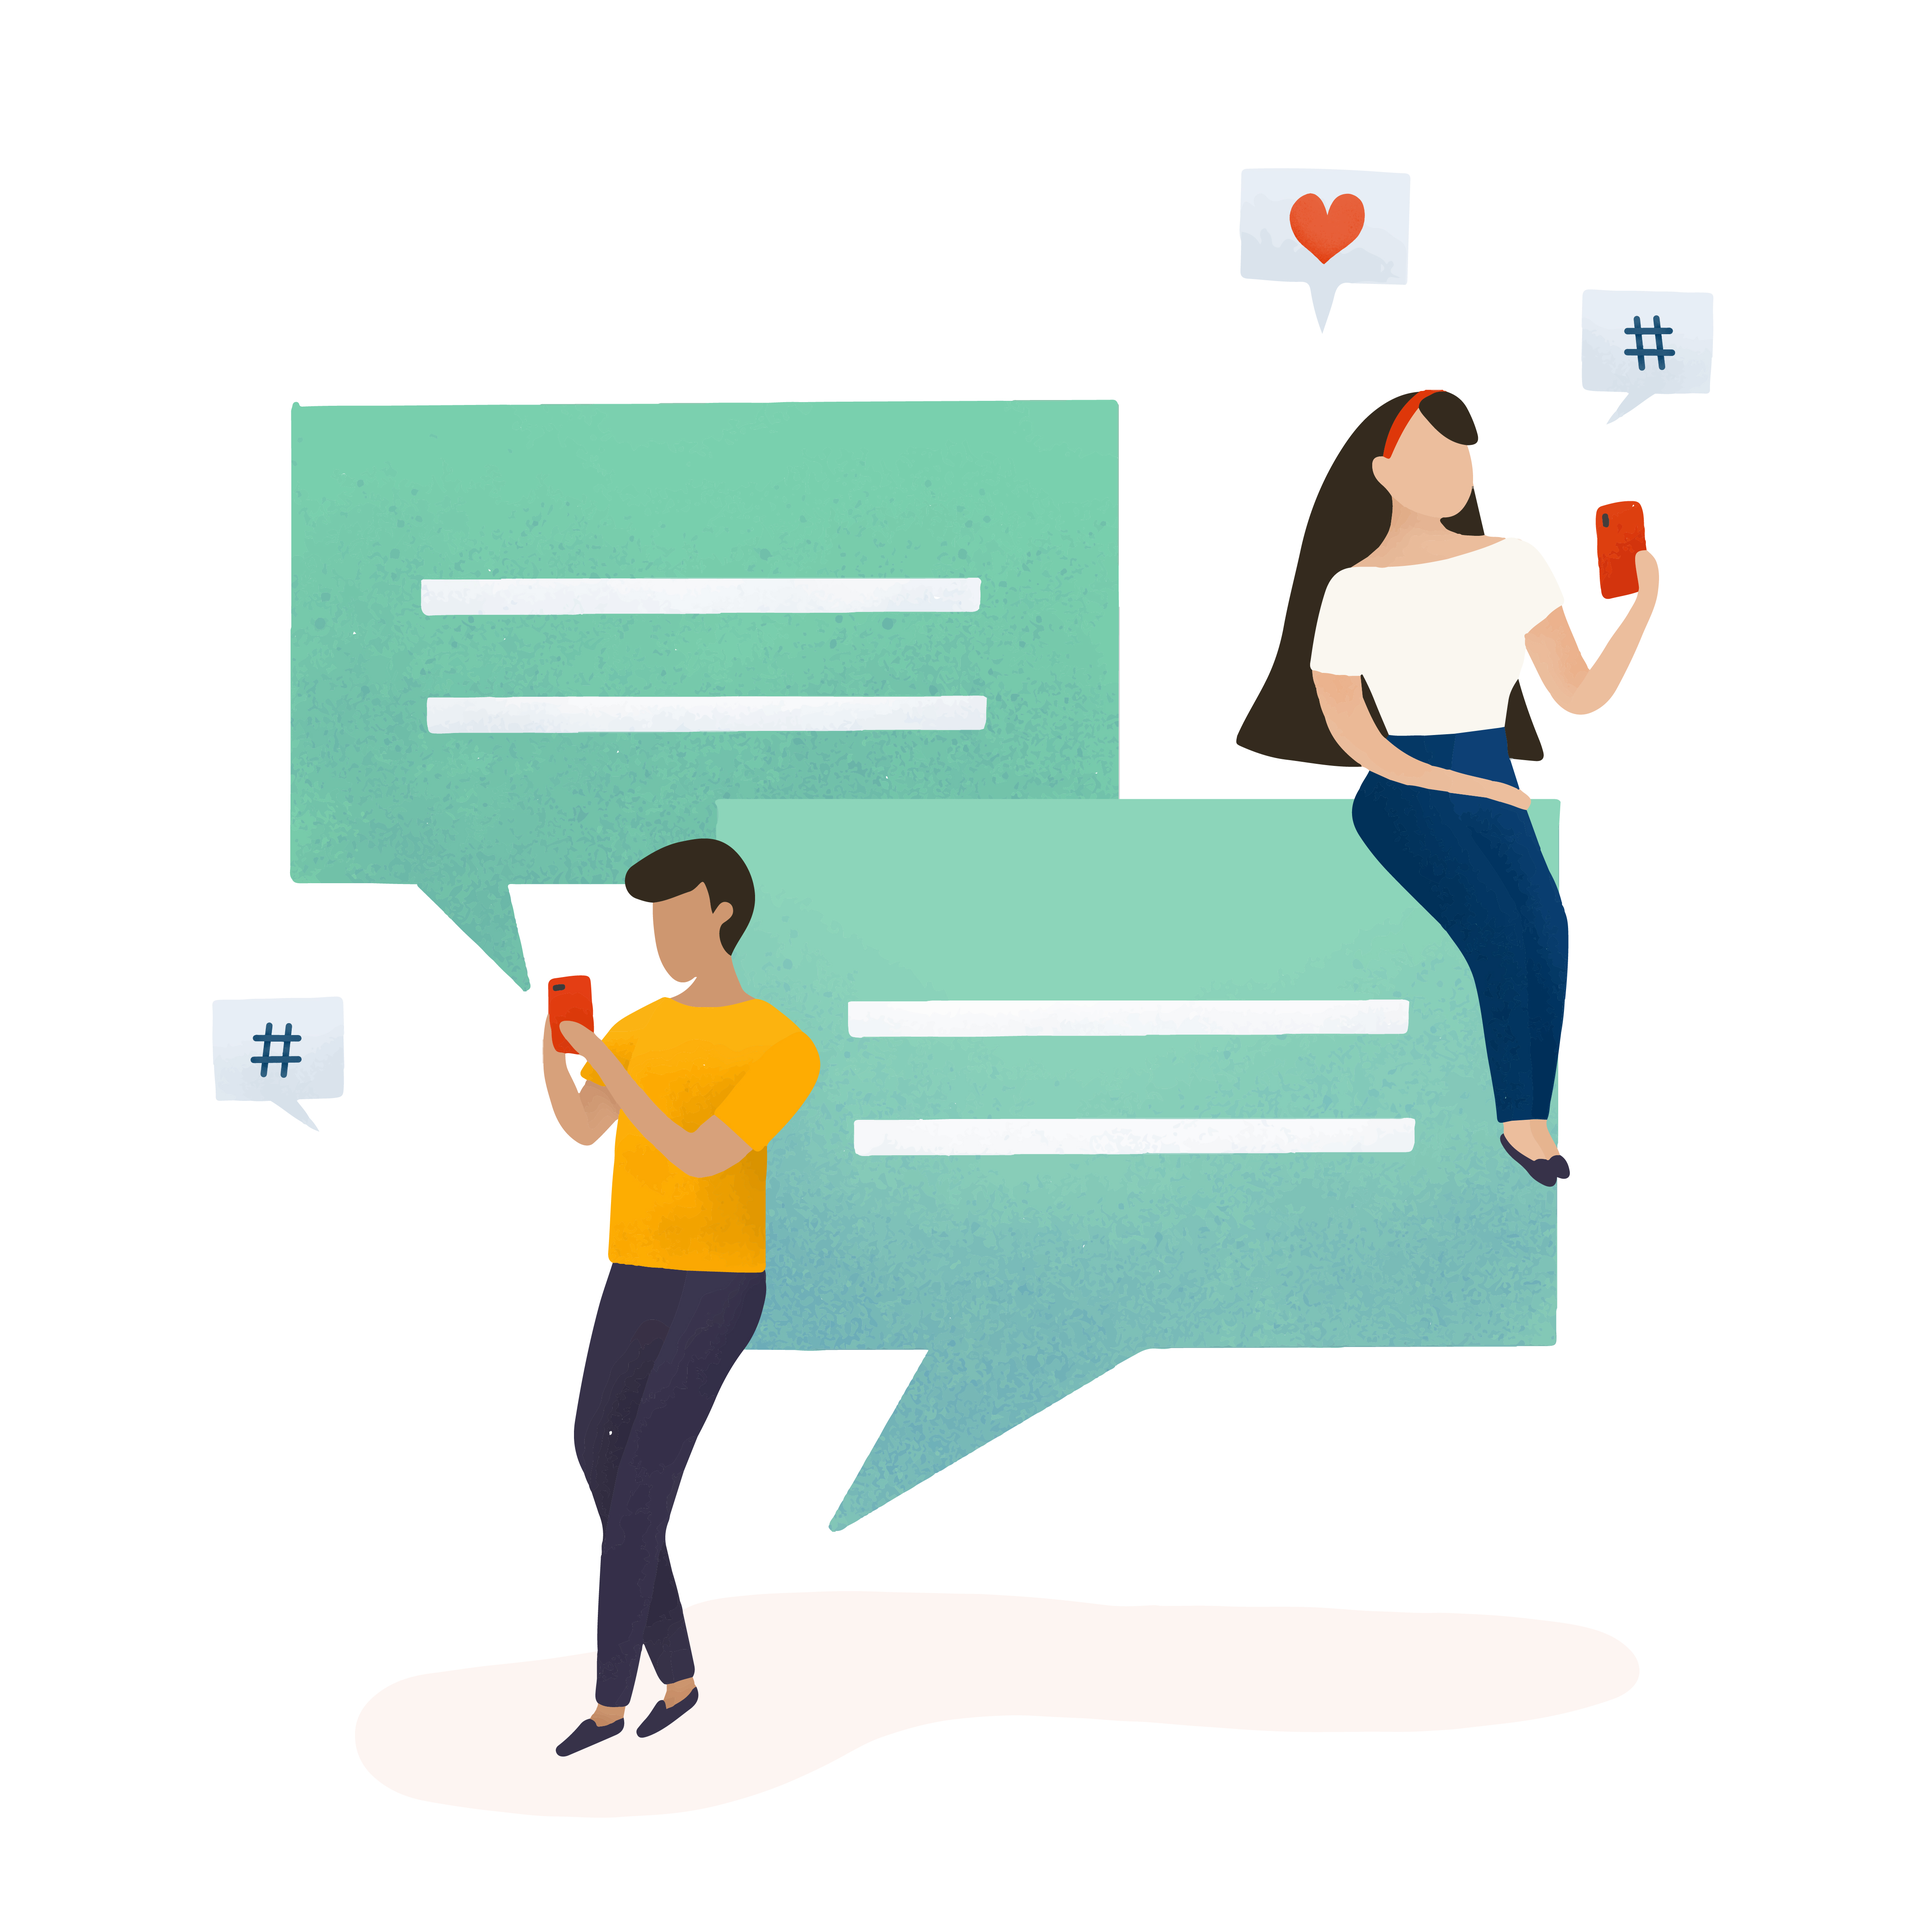
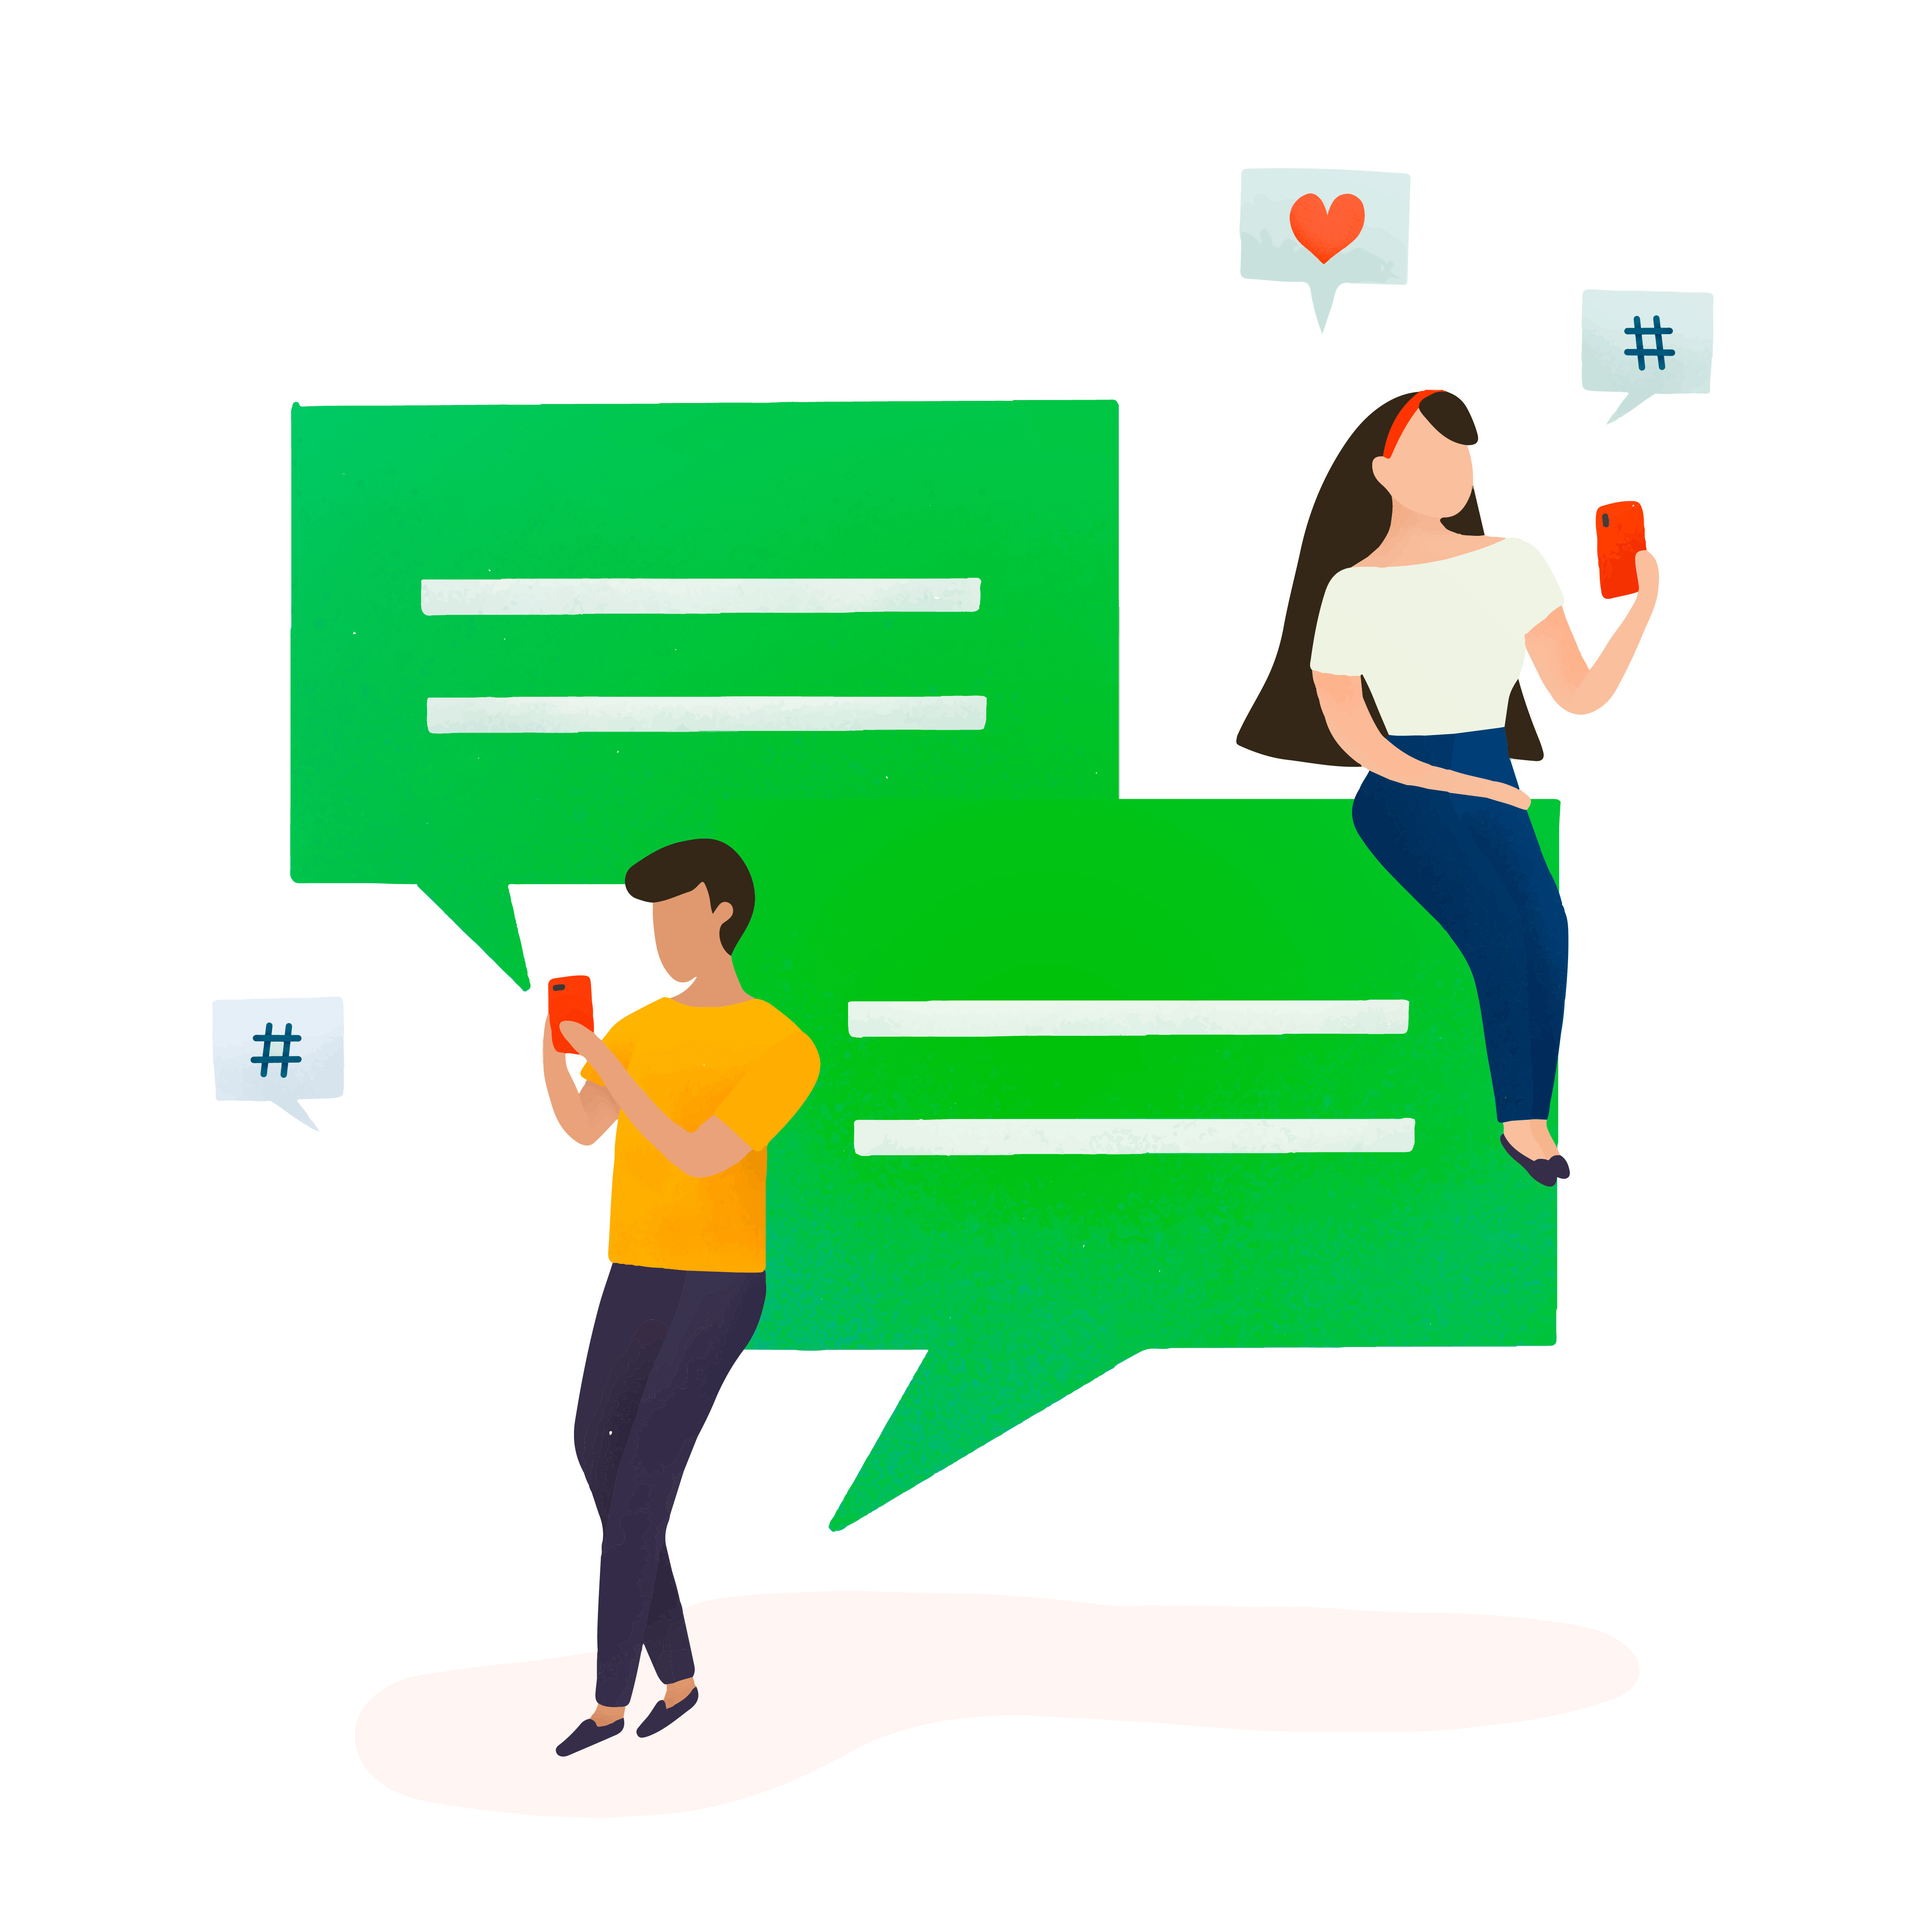
rm redundant

diff --git a/app/static/styles.css b/app/static/styles.css
@@ -1,9 +1,9 @@
 :root {
-    --primary-color: rgb(88, 193, 47);
+    --primary-color: #8fb3ff;
     --background-color: white;
-    --background-color: rgb(35, 35, 35);
-    --secondary-color: rgb(6, 2, 8);
-    --text-color: rgb(249, 243, 252);
+    --secondary-color: #ebf1ff;
+    --shade-color: #e9ecef;
+    --text-color: #04070c;
     --user-color: var(--primary-color);
     --friend-message: var(--secondary-color);
 }
@@ -184,20 +184,14 @@ h1,h2,h3,h4 {
     padding: 0px;
     background-color: transparent;
 }
+.main-border {
+    border: 2px solid var(--shade-color);
+}
 .default-border {
     border: 2px solid var(--primary-color);
 }
-.default-border-light {
-    border: 2px solid var(--text-color);
-}
-.right-border {
-    border-right: 1px solid var(--text-color);
-}
-.left-border {
-    border-left: 1px solid var(--text-color);
-}
 .bottom-border {
-    border-bottom: 1px solid var(--text-color);
+    border-bottom: 2px solid var(--shade-color);
 }
 .border-radius {
     border-radius: 20px;
